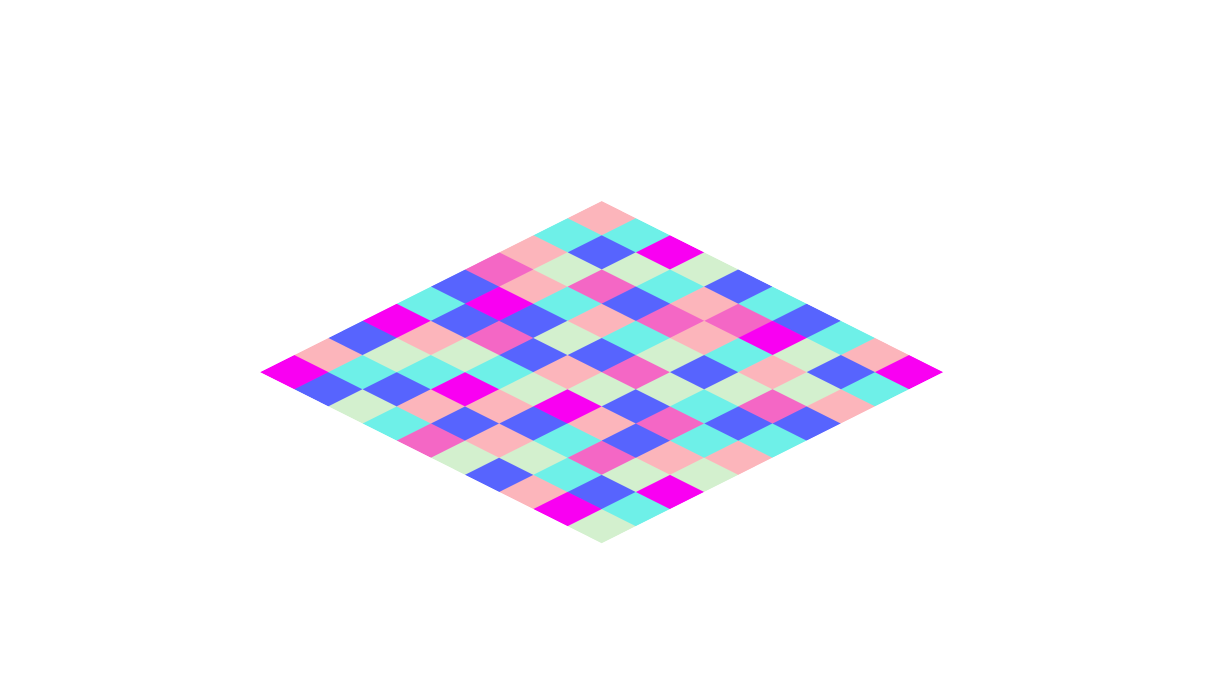
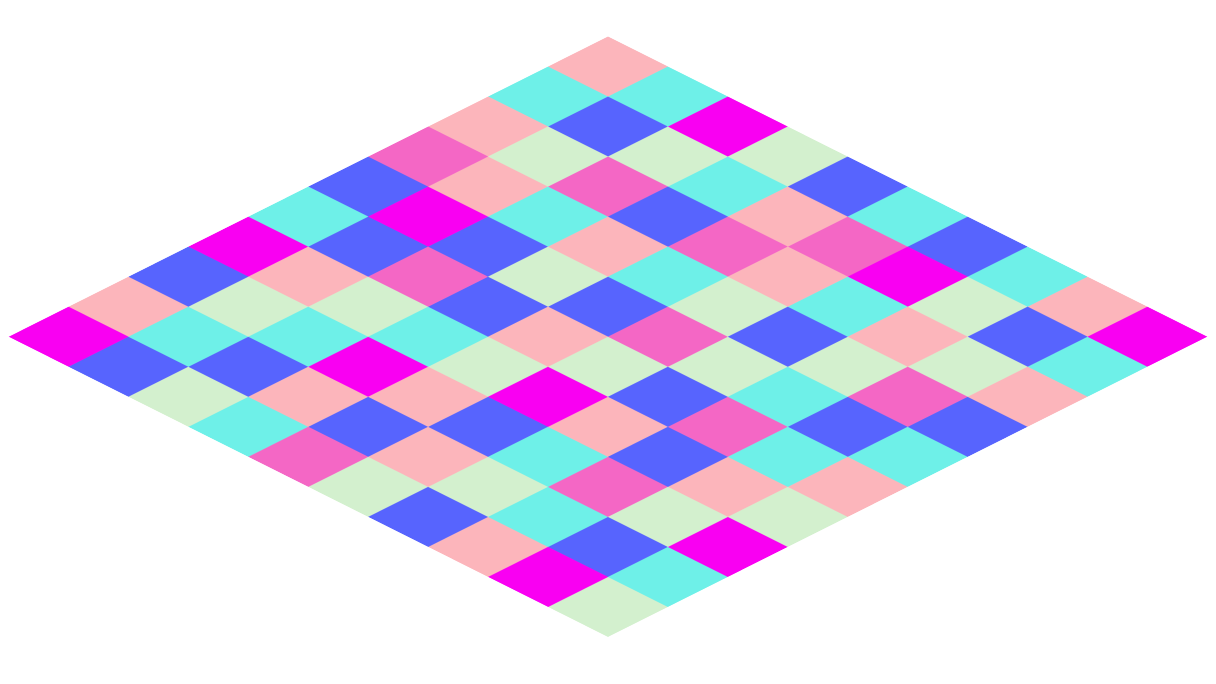
[+] fix world scale

diff --git a/SDGJ2020/core/game.cpp b/SDGJ2020/core/game.cpp
@@ -120,11 +120,13 @@ void Game::InitCoreEntities()
 	Entity* pDanceFloorEntity = CreateEntity();
 	auto danceRenderable = pDanceFloorEntity->AddComponent<Renderable>();
 	danceRenderable->SetTexture("art/dance-floor.png");
-	pDanceFloorEntity->m_scale *= 15;
+	pDanceFloorEntity->m_scale *= 10;
 
 	pCharacterEntity = CreateEntity();
 	auto charRenderable = pCharacterEntity->AddComponent<Renderable>();
 	charRenderable->SetTexture("art/sprite_01.png");
+	// make the character's width half of the tile size
+	pCharacterEntity->m_scale *= .5f;
 
 	pBerryEntity = CreateEntity();
 	auto berryRenderable = pBerryEntity->AddComponent<Renderable>();

diff --git a/SDGJ2020/core/camera.cpp b/SDGJ2020/core/camera.cpp
@@ -6,7 +6,7 @@ Camera* Camera::g_pCamera;
 
 void Camera::Init()
 {
-	m_width = 10;
+	m_width = 15;
 	m_position = glm::vec3(0,1,0);
 }
 
